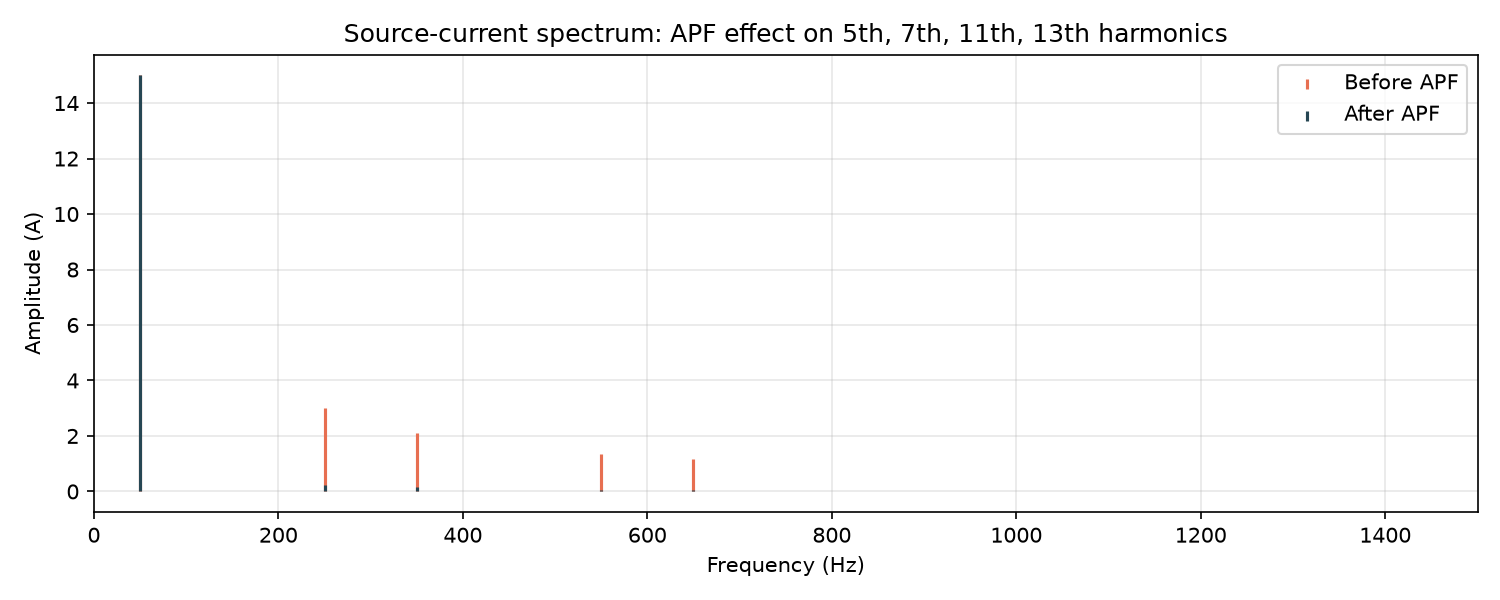
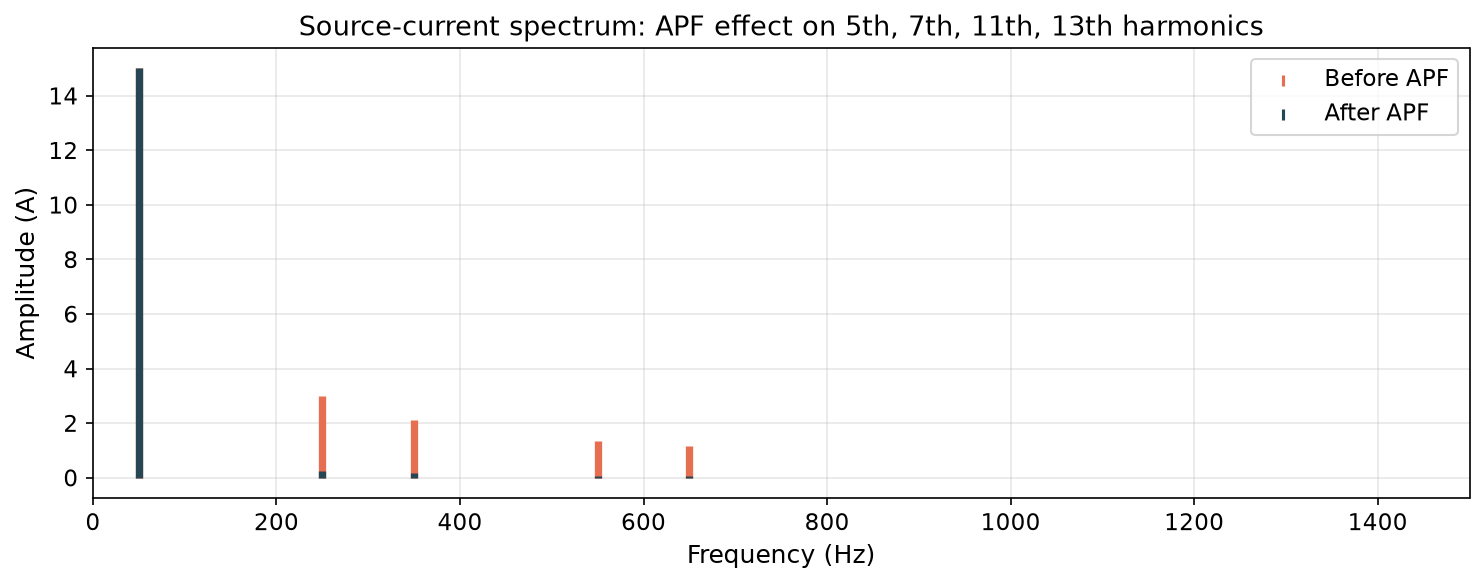
Fix figure legibility, reduce float-dump layout, add 2 more figures
Regenerated 04_spectrum_before_after.png (thicker stem lines - the
harmonic markers were nearly invisible at print size, default
matplotlib stem linewidth) and 07_bridge_confusion_matrix.png (larger
figure/fonts + bbox_inches='tight' - the long class-name tick labels
were getting clipped at the edge). Both re-verified against the
already-committed headline numbers (THD 27.13%->2.07%, bridge 93%
accuracy) - identical, this only touched plot cosmetics.

Reverted 3 floats (confusion matrix figure, both tables) from
double-column back to single-column: making everything double-column
last time fixed the overflow but pushed LaTeX to cluster 5 wide floats
together onto near-empty "float dump" pages instead of interleaving
with text. Only the two genuinely multi-panel figures (cost
sensitivity, Mesa Del Sol) still need the full width. Added a light
gray \rowcolor header to both tables (xcolor[table] + colortbl) since
plain booktabs/grid was reading as unfinished, and \footnotesize
inside each table to keep them comfortably within single-column width
without needing to stretch.

Added 2 more figures directly reinforcing existing claims: THD vs.
time (same suppression event as the spectrum figure, time-domain view)
and the real-data disturbance classifier's own confusion matrix
(pairs with the existing sim-to-real bridge confusion matrix) - both
verified clean/legible before inclusion. 9 figures total now.

diff --git a/paper/ICCIT2026_submission.tex b/paper/ICCIT2026_submission.tex
@@ -51,7 +51,7 @@
 \usepackage{graphicx}
 \usepackage{textcomp}
 \usepackage{booktabs}
-\usepackage{xcolor}
+\usepackage[table]{xcolor}
 \usepackage[colorlinks=true,linkcolor=black,citecolor=black,urlcolor=blue]{hyperref}
 
 \begin{document}
@@ -244,19 +244,27 @@ injecting the characteristic non-triplen harmonic set (5th, 7th,
 an FFT-based THD analyzer (5-cycle windows, 10~kHz solver rate). The
 filter suppresses source-current THD from 27.13\% to 2.07\% within
 one cycle of activation, inside the IEEE~519 5\% limit
-(Fig.~\ref{fig:spectrum}). Three representative operating points
-drawn from the HOMER annual simulation -- peak load, sharpest
-renewable drop, and low-solar/high-wind/high-load -- all suppress to
-the same THD level (an expected consequence of the harmonic model's
-fixed percentage-of-fundamental structure, reported as suppression
-\emph{robustness}), while projected battery cost varies by an order
-of magnitude across the same three hours.
+(Figs.~\ref{fig:spectrum}--\ref{fig:thdtime}). Three representative
+operating points drawn from the HOMER annual simulation -- peak load,
+sharpest renewable drop, and low-solar/high-wind/high-load -- all
+suppress to the same THD level (an expected consequence of the
+harmonic model's fixed percentage-of-fundamental structure, reported
+as suppression \emph{robustness}), while projected battery cost
+varies by an order of magnitude across the same three hours.
 
 \begin{figure}[t]
 \centerline{\includegraphics[width=\linewidth]{figs/fig1_spectrum.png}}
 \caption{Source-current spectrum before/after Active Power Filter
 activation (5th, 7th, 11th, 13th harmonics).}
 \label{fig:spectrum}
+\end{figure}
+
+\begin{figure}[t]
+\centerline{\includegraphics[width=\linewidth]{figs/fig8_thd_timeseries.png}}
+\caption{THD$_i$/THD$_v$ vs.\ time: the same suppression event as
+Fig.~\ref{fig:spectrum}, shown in the time domain, with the
+voltage-sag window and IEEE 519 limit marked.}
+\label{fig:thdtime}
 \end{figure}
 
 \subsection{Cyber-Resilient Anomaly Detection}
@@ -280,8 +288,9 @@ a by-construction-random null control.}
 \subsection{Disturbance Prediction and Explainability}
 A four-class Random Forest (None / Voltage\_Sag / Harmonic\_Distortion
 / Combined\_Weather\_Electrical) on ten electrical/weather features
-reaches 99.7\% held-out accuracy (99.26\% mean over five seeds). SHAP
-analysis (Fig.~\ref{fig:shap}) shows \texttt{voltage\_rms\_V}
+reaches 99.7\% held-out accuracy (99.26\% mean over five seeds,
+Fig.~\ref{fig:distcm}). SHAP analysis (Fig.~\ref{fig:shap}) shows
+\texttt{voltage\_rms\_V}
 dominates Voltage\_Sag predictions and \texttt{THD\_voltage\_pct} /
 harmonic-order features dominate Harmonic\_Distortion predictions --
 consistent with each disturbance's physical mechanism, not a
@@ -290,6 +299,13 @@ surfaces the classifier's prediction, the anomaly-detector's flag, and
 per-feature SHAP attribution together for a single reading, so a
 non-technical operator can inspect \emph{why} a prediction was made,
 not just what it was.
+
+\begin{figure}[t]
+\centerline{\includegraphics[width=\linewidth]{figs/fig9_disturbance_confusion.png}}
+\caption{Disturbance classifier confusion matrix on held-out real
+Jamalpur data (test accuracy 0.997).}
+\label{fig:distcm}
+\end{figure}
 
 \begin{figure}[t]
 \centerline{\includegraphics[width=\linewidth]{figs/fig3_shap.png}}
@@ -326,12 +342,12 @@ every real value) raised accuracy to \textbf{93\%}
 anomaly detector flagging 96--100\% of simulated disturbed cases
 vs.\ 28\% of normal ones.
 
-\begin{figure*}[t]
-\centerline{\includegraphics[width=0.55\textwidth]{figs/fig4_bridge_confusion.png}}
+\begin{figure}[t]
+\centerline{\includegraphics[width=\linewidth]{figs/fig4_bridge_confusion.png}}
 \caption{Confusion matrix: classifier trained only on real data,
 evaluated on physics-simulated waveforms.}
 \label{fig:bridge}
-\end{figure*}
+\end{figure}
 
 \subsection{Cost Quantification}
 \label{sec:cost}
@@ -354,22 +370,24 @@ assumed-parameter space (right).}
 \label{fig:sensitivity}
 \end{figure*}
 
-\begin{table*}[t]
+\begin{table}[t]
 \centering
+\footnotesize
 \caption{HOMER optimization: three candidate architectures}
 \label{tab:homer}
 \begin{tabular}{|l|c|c|c|}
 \hline
-\textbf{Config} & \textbf{Renewable Frac.} & \textbf{COE (\$/kWh)} & \textbf{NPC (\$)} \\
+\rowcolor{gray!20}
+\textbf{Config} & \textbf{RE Frac.} & \textbf{COE (\$/kWh)} & \textbf{NPC (\$)} \\
 \hline
-1 (PV+WT+FC+BESS) & 81.4\% & 0.0278 & 501{,}600 \\
+1: PV+WT+FC+BESS & 81.4\% & 0.0278 & 501{,}600 \\
 \hline
-2 (WT+FC+BESS)     & 53.3\% & 0.0671 & 736{,}617 \\
+2: WT+FC+BESS     & 53.3\% & 0.0671 & 736{,}617 \\
 \hline
-3 (FC+BESS only)   & 0.0\%  & 0.1032 & 1{,}120{,}089 \\
+3: FC+BESS only   & 0.0\%  & 0.1032 & 1{,}120{,}089 \\
 \hline
 \end{tabular}
-\end{table*}
+\end{table}
 
 \subsection{External Validation}
 \label{sec:external-validation}
@@ -400,19 +418,21 @@ each, showing continuous variability absent any scripted event.}
 Table~\ref{tab:summary} consolidates the headline results; each is
 generated by a committed, re-runnable script.
 
-\begin{table*}[t]
+\begin{table}[t]
 \centering
+\footnotesize
 \caption{Headline results}
 \label{tab:summary}
-\begin{tabular}{|p{9cm}|c|}
+\begin{tabular}{|p{4.6cm}|c|}
 \hline
+\rowcolor{gray!20}
 \textbf{Result} & \textbf{Section} \\
 \hline
 THD$_i$: 27.13\% $\to$ 2.07\% & \ref{sec:twin} \\
 \hline
 Disturbance classifier: 99.7\% acc. & III-D \\
 \hline
-Anomaly detector: ROC-AUC 0.70 vs.\ 0.50 (null control) & III-B \\
+Anomaly detector: ROC-AUC 0.70 vs.\ 0.50 (null) & III-B \\
 \hline
 Sim-to-real bridge: 93\% acc. & \ref{sec:bridge} \\
 \hline
@@ -420,10 +440,10 @@ Cost: 26{,}955 BDT/yr, 90\% CI [19.6k, 34.2k] & \ref{sec:cost} \\
 \hline
 HOMER: 81.4\% RE $\to$ \$0.0278/kWh & \ref{sec:cost} \\
 \hline
-External V/f check: real std $\approx$0.03\% (f), $\approx$0.5--0.6\% (V) p.u. & \ref{sec:external-validation} \\
+Ext.\ V/f check: std $\approx$0.03\% (f), $\approx$0.5--0.6\% (V) p.u. & \ref{sec:external-validation} \\
 \hline
 \end{tabular}
-\end{table*}
+\end{table}
 
 \section{Discussion and Limitations}
 \label{sec:limitations}

diff --git a/eee_sim/microgrid_pq_twin.py b/eee_sim/microgrid_pq_twin.py
@@ -310,15 +310,21 @@ def run(P: Params | None = None) -> pd.DataFrame:
         post_X = np.abs(np.fft.fft(post_win))[:Nfft // 2] * (2 / Nfft)
         freqs  = np.fft.fftfreq(Nfft, P.Ts)[:Nfft // 2]
         fig, ax = plt.subplots(figsize=(10, 4))
-        ax.stem(freqs, pre_X,  linefmt="#e76f51", markerfmt=" ",
-                basefmt=" ", label="Before APF")
-        ax.stem(freqs, post_X, linefmt="#264653", markerfmt=" ",
-                basefmt=" ", label="After APF")
+        _, stem1, _ = ax.stem(freqs, pre_X, linefmt="#e76f51", markerfmt=" ",
+                               basefmt=" ", label="Before APF")
+        _, stem2, _ = ax.stem(freqs, post_X, linefmt="#264653", markerfmt=" ",
+                               basefmt=" ", label="After APF")
+        plt.setp(stem1, linewidth=3.5)
+        plt.setp(stem2, linewidth=3.5)
         ax.set_xlim(0, 1500)
-        ax.set_xlabel("Frequency (Hz)"); ax.set_ylabel("Amplitude (A)")
-        ax.set_title("Source-current spectrum: APF effect on 5th, 7th, 11th, 13th harmonics")
-        ax.grid(alpha=0.3); ax.legend()
-        plt.tight_layout(); plt.savefig(FIG_DIR / "04_spectrum_before_after.png", dpi=150)
+        ax.set_xlabel("Frequency (Hz)", fontsize=12)
+        ax.set_ylabel("Amplitude (A)", fontsize=12)
+        ax.set_title("Source-current spectrum: APF effect on 5th, 7th, 11th, 13th harmonics",
+                      fontsize=13)
+        ax.tick_params(labelsize=11)
+        ax.grid(alpha=0.3); ax.legend(fontsize=11)
+        plt.tight_layout()
+        plt.savefig(FIG_DIR / "04_spectrum_before_after.png", dpi=150, bbox_inches="tight")
         plt.close()
 
     # =====================================================================

diff --git a/eee_sim/twin_to_cse_bridge.py b/eee_sim/twin_to_cse_bridge.py
@@ -236,12 +236,17 @@ def run():
     print(classification_report(y_true, y_pred))
 
     cm_labels = scenarios
-    fig, ax = plt.subplots(figsize=(6, 5.5))
-    ConfusionMatrixDisplay.from_predictions(
-        y_true, y_pred, labels=cm_labels, ax=ax, xticks_rotation=30, colorbar=False)
-    ax.set_title("CSE classifier (trained on real Jamalpur data)\napplied to EEE twin simulations")
+    fig, ax = plt.subplots(figsize=(7.5, 6.5))
+    disp = ConfusionMatrixDisplay.from_predictions(
+        y_true, y_pred, labels=cm_labels, ax=ax, xticks_rotation=45, colorbar=False,
+        text_kw={"fontsize": 14})
+    ax.set_title("CSE classifier (trained on real Jamalpur data)\napplied to EEE twin simulations",
+                  fontsize=13)
+    ax.set_xlabel("Predicted label", fontsize=12)
+    ax.set_ylabel("True label", fontsize=12)
+    ax.tick_params(labelsize=11)
     plt.tight_layout()
-    plt.savefig(FIG_DIR / "07_bridge_confusion_matrix.png", dpi=150)
+    plt.savefig(FIG_DIR / "07_bridge_confusion_matrix.png", dpi=150, bbox_inches="tight")
     plt.close()
 
     # --- anomaly detector: does it flag disturbed windows more than baseline? ---
